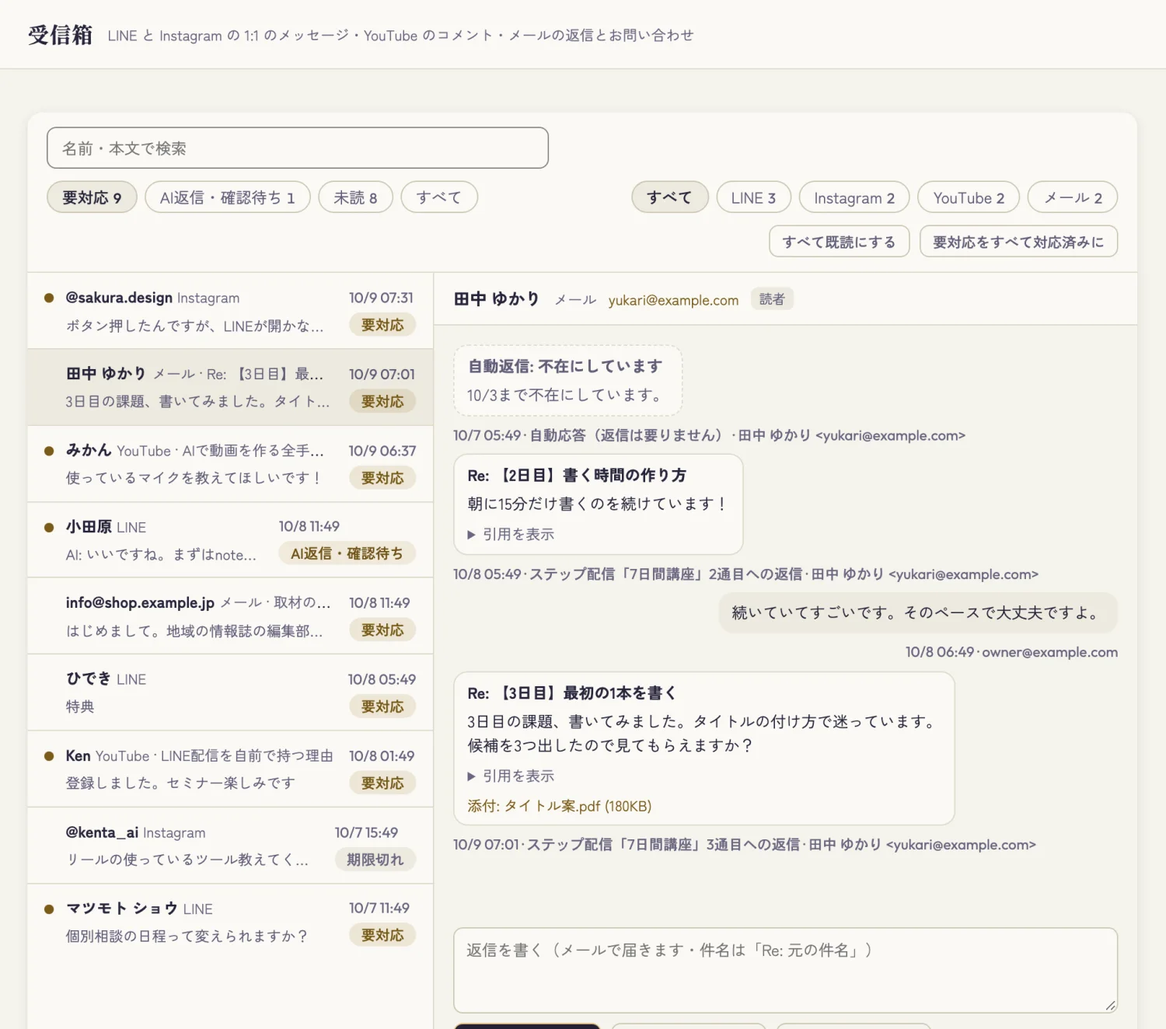
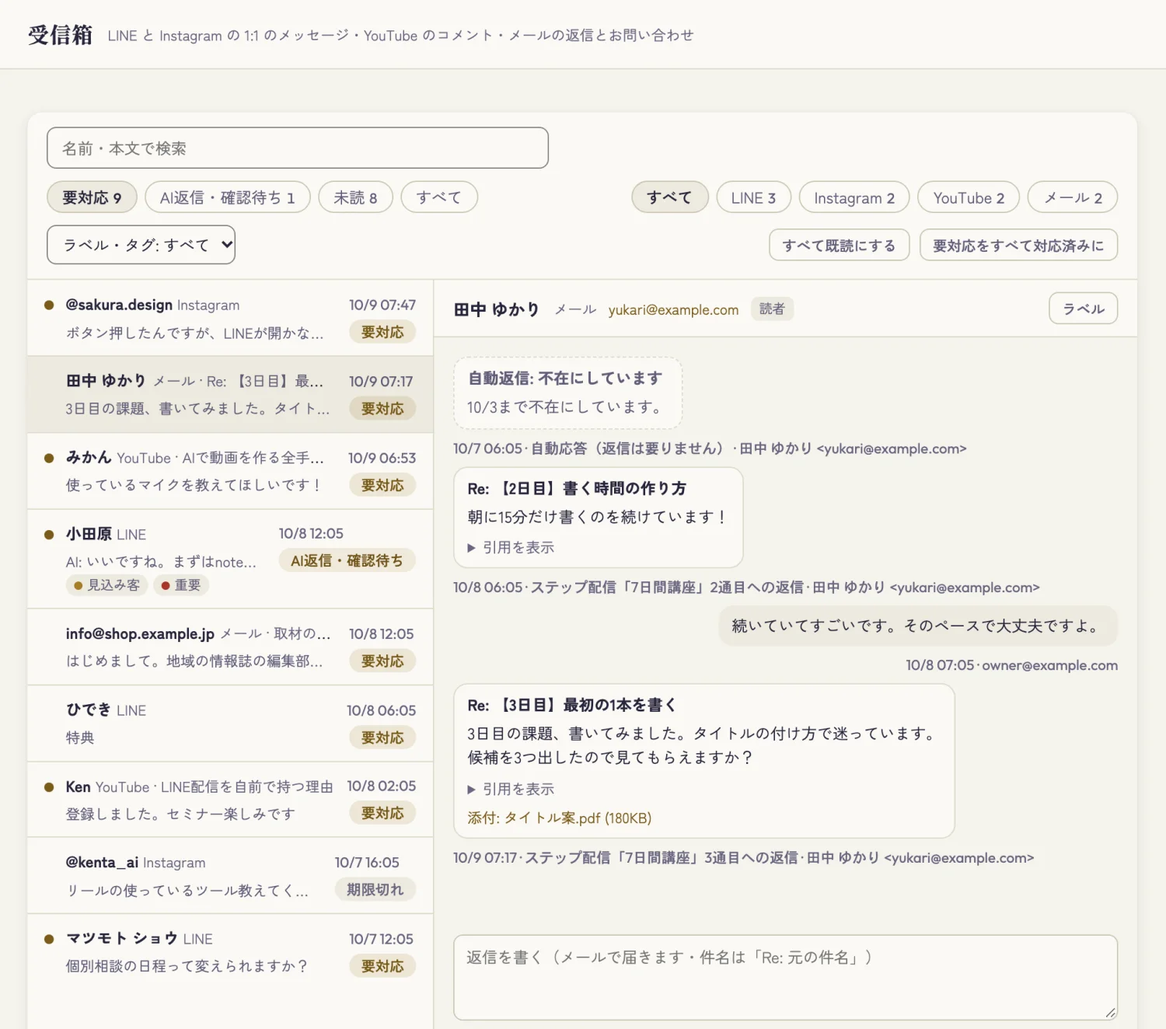
rondo LP v4 r4直し: Astra r4(出荷不可)のP1×5・P2×3 — InstagramのAI返事は配布版に雛形が無いので載せない・Instagram/Threadsの数字はフォロワー数まで(投稿・ビュー・推移は収集の仕組み)・見立ての文を実装の規則(cast)の文面で撮り直し・NEWを変更履歴どおりに(顧客区分は既存・合算上限はNEW・既存と追加を分ける)・設定で変えられる物と見るだけの物を分ける・4枚の文法を言い過ぎない・320pxの一覧を1列に・altを両画像に合う説明に・メール受信の初回設定をFAQに。main 8dee1d03 の受信箱のラベルとラベル・タグの絞り

diff --git a/public/rondo-v4.html b/public/rondo-v4.html
@@ -185,6 +185,7 @@ header.top nav a:hover{color:var(--ink)}
 .robe-row i{width:16px;height:16px;border-radius:5px;background:radial-gradient(circle at 70% 32%,var(--d) 0 22%,transparent 26%),var(--b);box-shadow:inset 0 0 0 1px rgba(40,38,60,.2)}
 /* v1.0 に入っているもの */
 .inv{display:grid;grid-template-columns:repeat(auto-fill,minmax(300px,1fr));gap:0 40px;margin-top:44px}
+@media (max-width:520px){.inv{grid-template-columns:minmax(0,1fr)}}
 .inv > div{padding:22px 0 20px;box-shadow:0 -1px 0 var(--line)}
 .inv h3{display:flex;align-items:center;gap:8px;font-size:17px;margin-bottom:8px}
 .inv h3 i{width:9px;height:9px;border-radius:50%}
@@ -362,7 +363,7 @@ footer .copy{margin-left:auto;font-size:12px;color:var(--ink3)}
         <a class="real" href="/rondo-assets/rondo-admin-channels@2x.webp" data-zoom data-rondo-label="ヒーロー 画面の拡大">
           <picture>
             <source media="(max-width:520px)" srcset="/rondo-assets/rondo-admin-channels-sp.webp" width="600" height="1262">
-            <img src="/rondo-assets/rondo-admin-channels.webp" srcset="/rondo-assets/rondo-admin-channels.webp 1600w, /rondo-assets/rondo-admin-channels@2x.webp 2400w" sizes="(max-width:920px) 100vw, 540px" width="1600" height="1200" fetchpriority="high" alt="Rondoの管理画面の実物。チャネル画面の「すべて」で、つながり合計・投稿7日・ビュー7日と、メール・Threads・Instagram・LINE・YouTube・X・note・Substack・LPのタイルに、規模と7日の増減と30日の推移が並んでいる">
+            <img src="/rondo-assets/rondo-admin-channels.webp" srcset="/rondo-assets/rondo-admin-channels.webp 1600w, /rondo-assets/rondo-admin-channels@2x.webp 2400w" sizes="(max-width:920px) 100vw, 540px" width="1600" height="1200" fetchpriority="high" alt="Rondoの管理画面の実物。チャネル画面の「すべて」で、つながり合計・投稿7日・ビュー7日と、チャネルごとのタイルに規模と7日の増減と30日の推移が並んでいる">
           </picture>
         </a>
         <figcaption>管理画面の実物です（チャネル → すべて）。数字は見本です。押すと大きく見られます。</figcaption>
@@ -390,7 +391,7 @@ footer .copy{margin-left:auto;font-size:12px;color:var(--ink3)}
       <h2><span class="ph">バラバラだった数字を、</span><br><span class="ph">1枚に。</span></h2>
       <p class="lede">メールはこのツール、LINEはあのツール、インスタは別のアプリ。ツールが分かれていると、数字も分かれます。Rondoでは、媒体ごとの反応から、流入元ごとの訪問と登録、購入と売上までが、同じ管理画面に並びます。</p>
       <div class="steps">
-        <div class="face-lo"><b class="n">1</b><div><h3>媒体ごとの反応</h3><p>メールとLINEは配信と友だちの台帳から、ThreadsとYouTubeは毎日の集計で、Instagramはつないだアカウントから数字を取ります。X・note・Substackは、あなたのAIが作る収集の仕組みで取り込みます。</p></div></div>
+        <div class="face-lo"><b class="n">1</b><div><h3>媒体ごとの反応</h3><p>メールとLINEは配信と友だちの台帳から数えます。YouTubeは登録者と再生を、Threadsはフォロワー数を毎日集計し、Instagramはつないだアカウントからフォロワー数を取ります。投稿ごとのビューや日々の推移、X・note・Substackの数字は、あなたのAIが作る収集の仕組みで取り込みます。</p></div></div>
         <div class="face-lo"><b class="n">2</b><div><h3>流入元ごとの訪問と登録</h3><p>リンクに流入元の印を付け、LPの訪問とメール・LINEの登録を流入元ごとに数えます。連携リンクやコードで結び付いたメール読者とLINE友だちは、同じ顧客としてまとめます。</p></div></div>
         <div class="face-lo"><b class="n">3</b><div><h3>購入と売上</h3><p>Stripeの決済の通知を受けて、購入と売上を台帳に記録します。決済ページはStripeで用意します。</p></div></div>
       </div>
@@ -446,13 +447,13 @@ footer .copy{margin-left:auto;font-size:12px;color:var(--ink3)}
       </div>
       <div role="tabpanel" id="pane-home" aria-labelledby="tab-home">
         <figure class="face shot" style="margin:0 auto"><div class="bar"><i></i><i></i><i></i><span>rondo /admin · ダッシュボード</span></div>
-          <a class="real" href="/rondo-assets/rondo-admin-home.webp" data-zoom data-rondo-label="画面 ダッシュボード 拡大"><picture><source media="(max-width:520px)" srcset="/rondo-assets/rondo-admin-home-sp.webp" width="600" height="1154"><img src="/rondo-assets/rondo-admin-home.webp" width="1600" height="1200" loading="lazy" alt="ダッシュボード。売上30日・講座の読者・LINE友だちの3枚、LP訪問から登録・教材クリック・売上までのファネル、AIの見立て、日別配信数のグラフ"></picture></a></figure>
-        <p class="cap">開いて最初に見る画面です。売上30日・講座の読者・LINE友だち。LPの訪問から登録、教材のクリック、売上までのファネル。止まっている配信があれば、いちばん上に出ます。下には、全チャネルの調子の表が続きます。</p>
+          <a class="real" href="/rondo-assets/rondo-admin-home.webp" data-zoom data-rondo-label="画面 ダッシュボード 拡大"><picture><source media="(max-width:520px)" srcset="/rondo-assets/rondo-admin-home-sp.webp" width="600" height="1154"><img src="/rondo-assets/rondo-admin-home.webp" width="1600" height="1200" loading="lazy" alt="ダッシュボード。売上30日・講座の読者・LINE友だちの数字、LP訪問から登録・教材クリック・売上までのファネル、イケハヤAIの見立て"></picture></a></figure>
+        <p class="cap">開いて最初に見る画面です。売上30日・講座の読者・LINE友だち。LPの訪問から登録、教材のクリック、売上までのファネル。止まっている配信や、伸ばせそうなところがあれば、いちばん上に出ます。下には、全チャネルの調子の表が続きます。</p>
       </div>
       <div role="tabpanel" id="pane-ch" aria-labelledby="tab-ch" hidden>
         <figure class="face shot" style="margin:0 auto"><div class="bar"><i></i><i></i><i></i><span>rondo /admin · チャネル · すべて</span></div>
-          <a class="real" href="/rondo-assets/rondo-admin-channels@2x.webp" data-zoom data-rondo-label="画面 すべて 拡大"><picture><source media="(max-width:520px)" srcset="/rondo-assets/rondo-admin-channels-sp.webp" width="600" height="1262"><img src="/rondo-assets/rondo-admin-channels.webp" width="1600" height="1200" loading="lazy" alt="チャネル画面の「すべて」。上に全チャネルの合計の4枚、下にチャネルごとのタイルが3列で並ぶ"></picture></a></figure>
-        <p class="cap">上の4枚は、全チャネルのつながりの合計・7日の投稿・7日のビュー・つないでいるチャネル。その下に、チャネルごとの規模と7日の動き、30日の線。タイルを押すと、そのチャネルの画面に入ります。</p>
+          <a class="real" href="/rondo-assets/rondo-admin-channels@2x.webp" data-zoom data-rondo-label="画面 すべて 拡大"><picture><source media="(max-width:520px)" srcset="/rondo-assets/rondo-admin-channels-sp.webp" width="600" height="1262"><img src="/rondo-assets/rondo-admin-channels.webp" width="1600" height="1200" loading="lazy" alt="チャネル画面の「すべて」。上に全チャネルの合計の4枚、下にチャネルごとのタイルが並ぶ"></picture></a></figure>
+        <p class="cap">上の4枚は、全チャネルのつながりの合計・7日の投稿・7日のビュー・つないでいるチャネル。その下に、チャネルごとの規模と7日の動き、30日の線。タイルを押すと、そのチャネルの画面に入ります。SNSの投稿とビューは、収集の仕組みをつないだチャネルで出ます。</p>
       </div>
       <div role="tabpanel" id="pane-mail" aria-labelledby="tab-mail" hidden>
         <figure class="face shot" style="margin:0 auto"><div class="bar"><i></i><i></i><i></i><span>rondo /admin · チャネル · メール</span></div>
@@ -461,11 +462,11 @@ footer .copy{margin-left:auto;font-size:12px;color:var(--ink3)}
       </div>
       <div role="tabpanel" id="pane-line" aria-labelledby="tab-line" hidden>
         <figure class="face shot" style="margin:0 auto"><div class="bar"><i></i><i></i><i></i><span>rondo /admin · チャネル · LINE</span></div>
-          <a class="real" href="/rondo-assets/rondo-admin-line.webp" data-zoom data-rondo-label="画面 LINE 拡大"><picture><source media="(max-width:520px)" srcset="/rondo-assets/rondo-admin-line-sp.webp" width="600" height="1154"><img src="/rondo-assets/rondo-admin-line.webp" width="1600" height="1200" loading="lazy" alt="LINEの画面。友だち・友だち追加7日・ブロック7日・ブロック累計の4枚と、友だち追加の30日の推移、友だちの出入りの記録"></picture></a></figure>
+          <a class="real" href="/rondo-assets/rondo-admin-line.webp" data-zoom data-rondo-label="画面 LINE 拡大"><picture><source media="(max-width:520px)" srcset="/rondo-assets/rondo-admin-line-sp.webp" width="600" height="1154"><img src="/rondo-assets/rondo-admin-line.webp" width="1600" height="1200" loading="lazy" alt="LINEの画面。友だち・友だち追加7日・ブロック7日・ブロック累計の4枚と、友だち追加の30日の推移"></picture></a></figure>
         <p class="cap">友だち・追加・ブロックの4枚と、友だち追加の30日の推移。出入りは1件ずつ時刻つきで残ります。流入経路ごとの友だち追加やA/Bの結果は、LINEの分析の画面で見られます。</p>
       </div>
       <div class="grammar">
-        <p>どのチャネルも、同じ順の4枚で読めます。</p>
+        <p>どのチャネルも、上に主な数字を4枚。</p>
         <ol>
           <li><b>規模</b>読者・友だち・フォロワー</li>
           <li><b>発信</b>配信・投稿</li>
@@ -473,7 +474,7 @@ footer .copy{margin-left:auto;font-size:12px;color:var(--ink3)}
           <li><b>成果</b>登録・友だち追加・売上</li>
         </ol>
       </div>
-      <p class="fine center" style="margin-top:16px">画面は実物で、数字は見本です。つないでいないチャネルは出ません。</p>
+      <p class="fine center" style="margin-top:16px">画面は実物で、数字は見本です。設定と原稿を入れ、各チャネルをつないだ状態の見本です。</p>
     </div>
   </div>
 </section>
@@ -509,16 +510,17 @@ footer .copy{margin-left:auto;font-size:12px;color:var(--ink3)}
         <ul class="bul">
           <li>要対応・AIの返信の確認待ち・未読で絞り込み、チャネルでも絞り込み</li>
           <li>名前と本文で検索（メールは件名とアドレス、YouTubeは動画名も）</li>
+          <li>会話に自分のラベル（名前と色）を付けて、ラベルやLINEのタグ・購入で絞り込み</li>
           <li>「すべて既読にする」「要対応をすべて対応済みに」。押し間違えないよう2回押し</li>
           <li>メールは、どの配信への返信かが見え、添付も読めます。自動応答は要対応にしません</li>
-          <li>LINEとInstagramのDMは、AIに返事を任せることもできる（任意）</li>
+          <li>LINEは、AIに返事を任せることもできる（任意）</li>
           <li>同じ返信を二度送らない仕組み。Instagramは返信できる残り時間を表示</li>
         </ul>
-        <p class="note">Instagramは相手の最後のメッセージから24時間まで返信できます（Instagramの決まり）。YouTubeは投稿から30日以内のコメントを取り込みます。一部の大きなチャンネルでは、Googleの判断で接続が一時的に止められることがあります。メールの返信を受け取るには、独自ドメインに受信の設定を足します。</p>
+        <p class="note">Instagramは相手の最後のメッセージから24時間まで返信できます（Instagramの決まり）。YouTubeは投稿から30日以内のコメントを取り込みます。一部の大きなチャンネルでは、Googleの判断で接続が一時的に止められることがあります。メールの返信を受け取るには、受信用のサブドメインとResendの受信の初回設定が要ります。</p>
       </div>
       <figure class="face shot" style="margin:0">
         <div class="bar"><i></i><i></i><i></i><span>rondo /admin · 受信箱</span></div>
-        <a class="real" href="/rondo-assets/rondo-admin-inbox.webp" data-zoom data-rondo-label="受信箱 画面の拡大"><picture><source media="(max-width:520px)" srcset="/rondo-assets/rondo-admin-inbox-sp.webp" width="600" height="1154"><img src="/rondo-assets/rondo-admin-inbox.webp" width="1500" height="1324" loading="lazy" alt="受信箱の実物。左にLINE・Instagram・YouTube・メールの会話が要対応の札つきで並び、右にステップメールへの読者の返信の会話と返信の入力欄が開いている"></picture></a>
+        <a class="real" href="/rondo-assets/rondo-admin-inbox.webp" data-zoom data-rondo-label="受信箱 画面の拡大"><picture><source media="(max-width:520px)" srcset="/rondo-assets/rondo-admin-inbox-sp.webp" width="600" height="1154"><img src="/rondo-assets/rondo-admin-inbox.webp" width="1500" height="1324" loading="lazy" alt="受信箱の実物。LINE・Instagram・YouTube・メールの会話が要対応やAIの確認待ちの札、ラベルつきで1つの一覧に並んでいる"></picture></a>
         <figcaption>受信箱の実物です。名前と本文は見本です。押すと大きく見られます。</figcaption>
       </figure>
     </div>
@@ -551,13 +553,14 @@ footer .copy{margin-left:auto;font-size:12px;color:var(--ink3)}
       <div>
         <p class="job">整える ・ 設定</p>
         <h2><span class="ph">運用の切り替えも、</span><br><span class="ph">画面で。</span></h2>
-        <p class="lede">管理画面の左下に「設定」があります。見た目の色から、AIの返事の一時停止、知らせの送り先、配信の安全装置まで、画面で変えるとその場で効きます。設置し直す必要はありません。</p>
+        <p class="lede">管理画面の左下に「設定」があります。見た目の色、AIの返事の一時停止、新しいメッセージの知らせ、配信の緊急停止などを、設置し直さずに画面から切り替えられます。</p>
         <ul class="bul">
           <li>デザインは7つの衣から（明るい5・暗い2）。端末に合わせることも</li>
-          <li>AIの返事を、LINEとInstagramそれぞれで一時停止</li>
-          <li>新しいメッセージと、見張りで問題が見つかったときの知らせ（Discord・メール）</li>
-          <li>配信の緊急停止、1人1日の上限、反応のない読者の休眠の整理</li>
-          <li>差出人の名前、データを残す日数</li>
+          <li>AIの返事の一時停止</li>
+          <li>新しいメッセージの知らせのオン・オフと、見張りの知らせを受けるメールの宛先</li>
+          <li>配信の緊急停止と、反応のない読者の休眠の整理</li>
+          <li>差出人の名前、データを残す日数、受信箱のラベルの名前と色</li>
+          <li>1人あたりの上限や一斉配信の上限は、ここで確かめられます</li>
         </ul>
         <div class="robe-row" aria-label="7つの衣">
           <span><i style="--b:#F5F3EC;--d:#B08A2E"></i>羽二重</span><span><i style="--b:#EEEDEA;--d:#B5413A"></i>墨</span><span><i style="--b:#F7ECEE;--d:#C25A73"></i>桜</span><span><i style="--b:#EEF2E7;--d:#5E8A3A"></i>若葉</span><span><i style="--b:#F8EEE6;--d:#C2652E"></i>茜</span><span><i style="--b:#1A1826;--d:#D9A94C"></i>宵闇</span><span><i style="--b:#161B26;--d:#8FB3D9"></i>雪月</span>
@@ -601,8 +604,9 @@ footer .copy{margin-left:auto;font-size:12px;color:var(--ink3)}
     </div>
     <div class="inv">
       <div><h3><i style="background:var(--ch-mail)"></i>メール</h3><ul>
-        <li>ステップメール・複数の講座・登録ページ<span class="new">NEW</span></li>
-        <li>一斉配信（タグ・購入・名簿で絞り込み・テスト送信）<span class="new">NEW</span></li>
+        <li>ステップメール・一斉配信</li>
+        <li>複数の講座と、講座ごとの登録ページ<span class="new">NEW</span></li>
+        <li>一斉配信の絞り込み（タグ・購入・名簿）とテスト送信<span class="new">NEW</span></li>
         <li>押したら動くリンク・本文の分岐・この講座だけ止める<span class="new">NEW</span></li>
         <li>件名のA/B（勝った方を自動で採用）</li>
         <li>購入で講座を始める・止める・タグを付ける<span class="new">NEW</span></li>
@@ -610,8 +614,9 @@ footer .copy{margin-left:auto;font-size:12px;color:var(--ink3)}
         <li>旧ツールの読者CSV・購入者CSVの取り込み<span class="new">NEW</span></li>
       </ul></div>
       <div><h3><i style="background:var(--ch-line)"></i>LINE</h3><ul>
-        <li>ステップ配信・タグ・分岐・リマインダ<span class="new">NEW</span></li>
-        <li>リッチメニューの出し分け<span class="new">NEW</span></li>
+        <li>ステップ配信・一斉配信・リッチメニュー</li>
+        <li>タグ・友だち情報・分岐・リマインダ<span class="new">NEW</span></li>
+        <li>タグで切り替わるリッチメニュー<span class="new">NEW</span></li>
         <li>流入経路の計測と、経路ごとの友だち追加<span class="new">NEW</span></li>
         <li>A/Bテスト・分析<span class="new">NEW</span></li>
         <li>画像・動画・カルーセル・フォーム<span class="new">NEW</span></li>
@@ -623,7 +628,6 @@ footer .copy{margin-left:auto;font-size:12px;color:var(--ink3)}
         <li>DMメニュー（質問ボタン・常設メニュー）<span class="new">NEW</span></li>
         <li>ストーリーのキャンペーンごとの成果表<span class="new">NEW</span></li>
         <li>管理画面からDMに返信<span class="new">NEW</span></li>
-        <li>DMのAIの返事（任意）<span class="new">NEW</span></li>
         <li><small>コメントへの返信には、Metaの追加の許可が要ります</small></li>
       </ul></div>
       <div><h3><i style="background:var(--ch-th)"></i>Threads</h3><ul>
@@ -639,13 +643,14 @@ footer .copy{margin-left:auto;font-size:12px;color:var(--ink3)}
       <div><h3><i style="background:var(--ink2)"></i>受信箱</h3><ul>
         <li>LINE・Instagram・YouTube・メールを1つの一覧に<span class="new">NEW</span></li>
         <li>名前と本文の検索<span class="new">NEW</span></li>
+        <li>会話のラベル・ラベルやタグでの絞り込み<span class="new">NEW</span></li>
         <li>すべて既読・要対応をすべて対応済みに<span class="new">NEW</span></li>
       </ul></div>
       <div><h3><i style="background:var(--ink2)"></i>数字</h3><ul>
         <li>ダッシュボード（売上・ファネル・チャネルの調子）</li>
         <li>チャネルの「すべて」と、チャネルごとの4枚<span class="new">NEW</span></li>
         <li>ファネル分析・LPのヒートマップと到達</li>
-        <li>顧客の区分（コア・常連・見込み・休眠）とスコア<span class="new">NEW</span></li>
+        <li>顧客の区分（コア・常連・見込み・休眠）とスコア</li>
         <li>X・note・Substackの数字の受け口</li>
       </ul></div>
       <div><h3><i style="background:var(--ink2)"></i>予約ページ</h3><ul>
@@ -655,7 +660,8 @@ footer .copy{margin-left:auto;font-size:12px;color:var(--ink3)}
       </ul></div>
       <div><h3><i style="background:var(--ink2)"></i>運用と守り</h3><ul>
         <li>設定の画面・デザインの7つの衣<span class="new">NEW</span></li>
-        <li>緊急停止・二重送信の防止・メールとLINEを合わせた1人1日の上限</li>
+        <li>緊急停止・二重送信の防止</li>
+        <li>メールとLINEを合わせた1人1日の上限（任意）<span class="new">NEW</span></li>
         <li>監査の画面に接続の健康と容量<span class="new">NEW</span></li>
         <li>毎日のバックアップと復元の練習<span class="new">NEW</span>・過去30日への巻き戻し</li>
         <li>導入の点検（送信ドメインの検査まで）<span class="new">NEW</span></li>
@@ -760,7 +766,7 @@ footer .copy{margin-left:auto;font-size:12px;color:var(--ink3)}
       <details><summary data-rondo-label="FAQ AIモデル">どの開発AIで使えますか？</summary><div class="a">Claude CodeとCodexを想定して手順書を書いています。どちらも、契約中のプランで使えます。</div></details>
       <details><summary data-rondo-label="FAQ 乗り換え">いま使っている配信ツールから乗り換えられますか？</summary><div class="a">はい。メールの読者はCSVで取り込め、解除・不達の人は配信停止の台帳へ入り、旧ツールの登録日から「続きの通」で始められます。LINEは、LステップのCSVからタグと友だち情報を持ち込めます（友だちとの結び付けは人が確かめます）。</div></details>
       <details><summary data-rondo-label="FAQ 導入の流れ">購入後は、どういう流れで使い始めますか？</summary><div class="a">決済が終わると、すぐに納品のメールが届きます。ソースコード一式（zip）と導入手順書を受け取り、開発AIに読ませて、あなたのCloudflareへ設置します。全体の流れは<a href="/rondo-setup" data-rondo-label="FAQ 導入の流れリンク">「導入の流れ」</a>、作業の手順は<a href="/rondo-guides/setup" data-rondo-label="FAQ 初回セットアップガイド">初回セットアップガイド</a>で公開しています。</div></details>
-      <details><summary data-rondo-label="FAQ メールの返信">配信したメールに読者が返信したら、どこに届きますか？</summary><div class="a">Rondoの受信箱に届きます。配信の返信先が受信箱につながり、どの配信への返信かも分かります。お問い合わせのメールも同じ一覧に入り、そこから返信できます。使うには、独自ドメインに受信の設定（MXの記録）を足します。手順は導入の手順書にあります。</div></details>
+      <details><summary data-rondo-label="FAQ メールの返信">配信したメールに読者が返信したら、どこに届きますか？</summary><div class="a">Rondoの受信箱に届きます。配信の返信先が受信箱につながり、どの配信への返信かも分かります。お問い合わせのメールも同じ一覧に入り、そこから返信できます。使うには、受信用のサブドメインとResendの受信の初回設定（MXの記録・Webhook・設定の値）が要ります。手順は導入の手順書にあります。</div></details>
       <details><summary data-rondo-label="FAQ 購入連動">購入した人だけに配信できますか？</summary><div class="a">できます。決済ページはStripeで用意し、決済の通知を受けると、タグ付け・メール講座の開始と停止・LINEの切り替えが動きます（商品と購入のルールの設定が必要です。LINEの切り替えは、メールとLINEが結び付いた人が対象です）。サブスクの管理は標準には入っていません（開発AIに作らせることはできます）。</div></details>
       <details><summary data-rondo-label="FAQ マーケ相談">マーケティングの相談には乗ってもらえますか？</summary><div class="a">個別の相談は受けていません。Rondoには、管理画面の数字を読んで改善の案を出す診断用のAIが同梱されています。</div></details>
       <details><summary data-rondo-label="FAQ 返金">返金はできますか？</summary><div class="a">ソースコード一式を納品するデジタル商品のため、購入者都合の返金・キャンセルは受け付けていません（法令に基づき必要な対応を除きます）。迷いがあるうちは、適性診断と公開中のガイドを先に確かめてください。</div></details>
